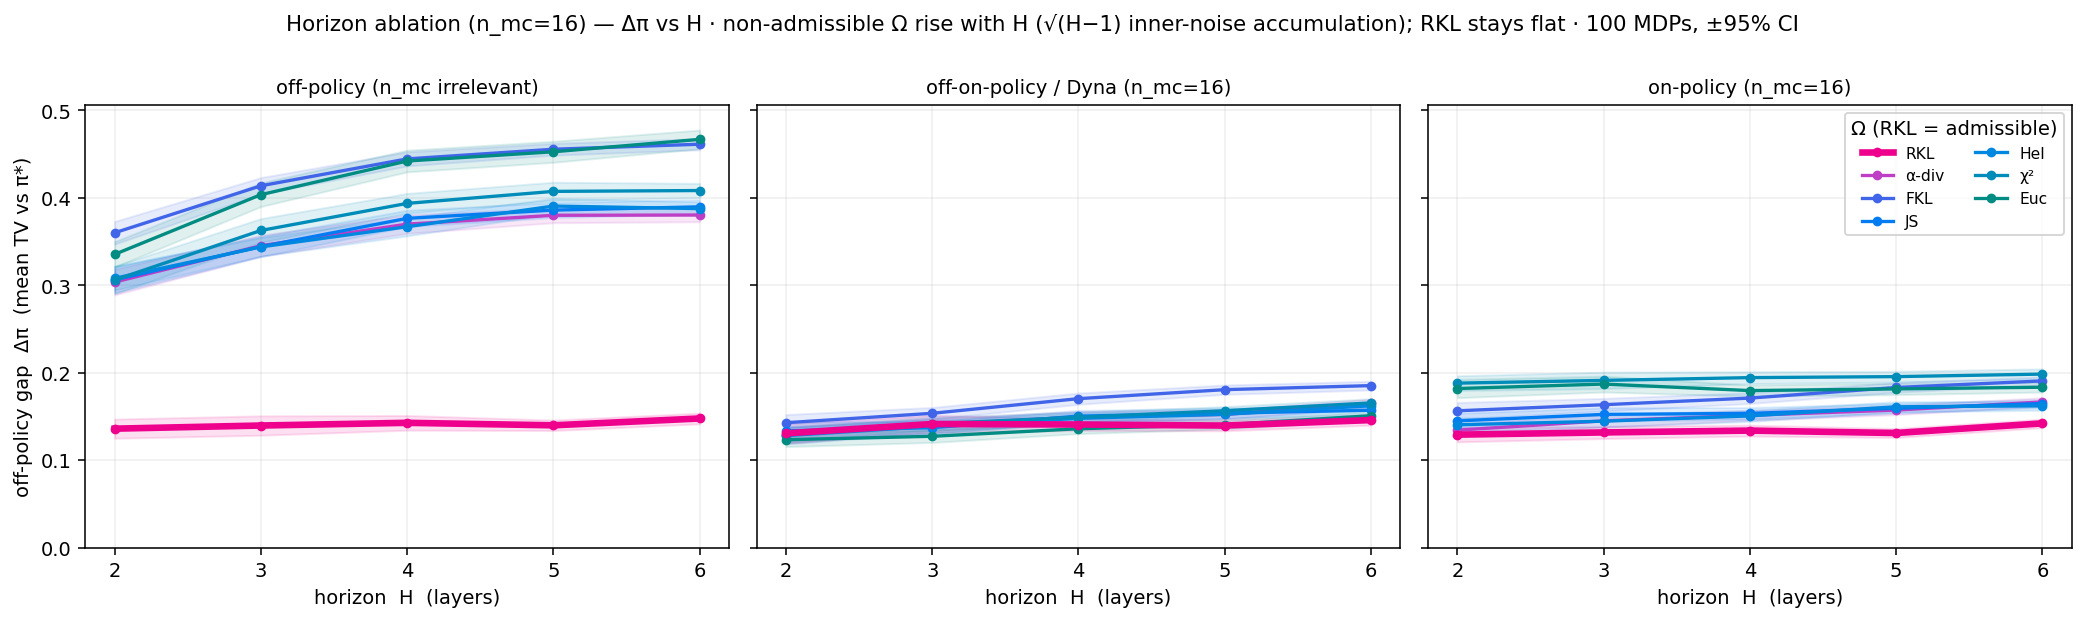
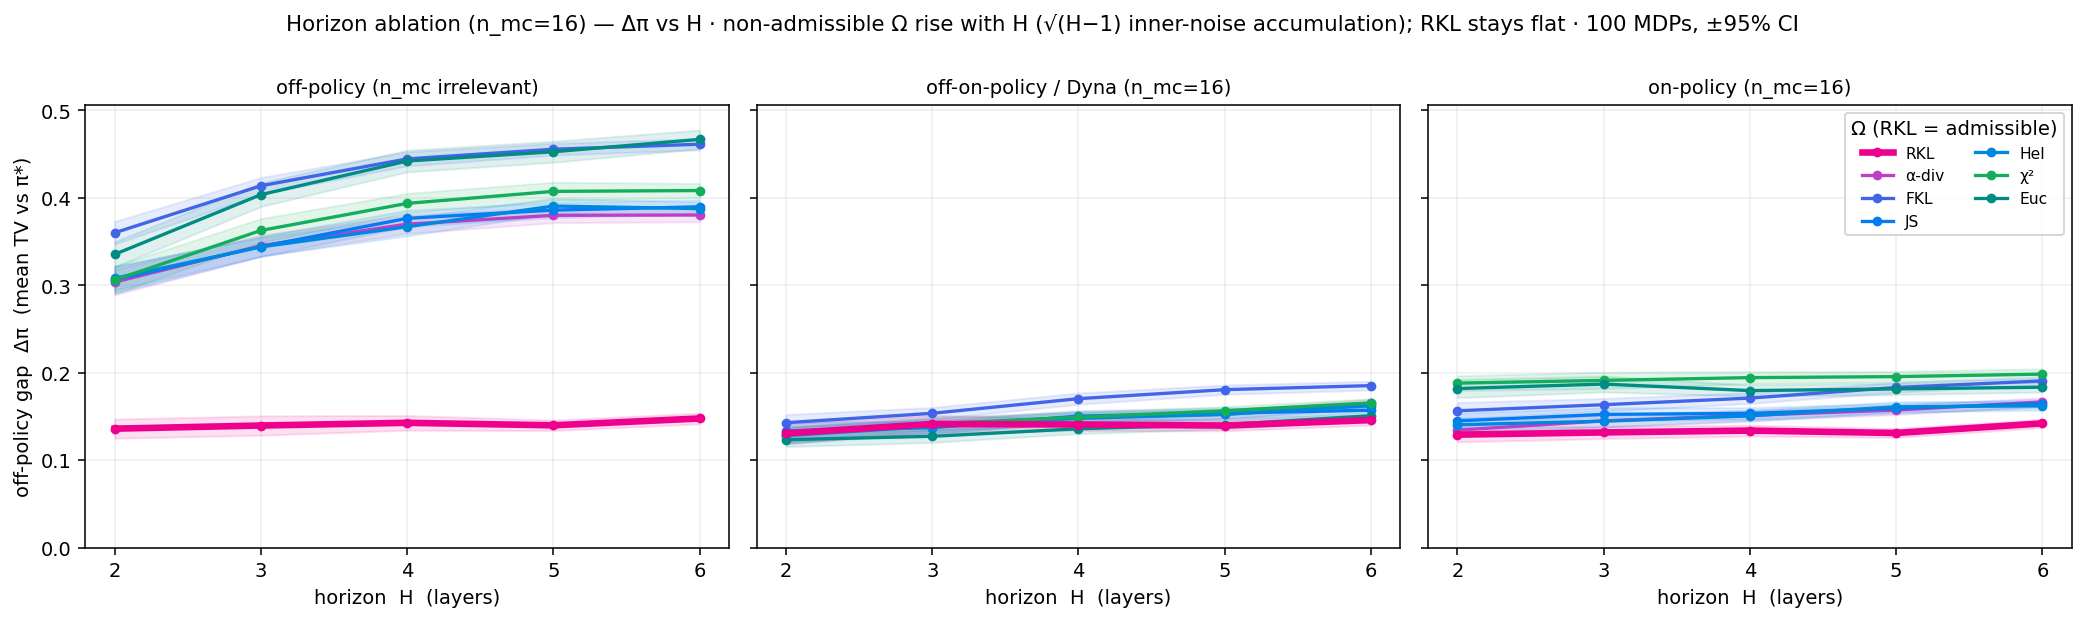
fig_tabular: use canonical COLORS, not the frozen manifest palette
fig_tabular read chi2's colour from each run's manifest snapshot (taken at data-gen
time), so the chi2->green recolor never reached the tabular headline/peak/sweep figs
even after regeneration. Colours are cosmetic -> use the canonical regularizers.COLORS
(_COLORS/_SHORT), matching the module's own 'canonical source' comment.

Regenerate all job-2 (02_figs.slrm) figures with green chi2 (verified: 27k green px in
tabular_headline_p70). Other fig_* scripts already used _COLORS directly; horizon and
mechanism figs updated too. All from local data/tabular/ — no cluster rerun.

diff --git a/python/fig_tabular.py b/python/fig_tabular.py
@@ -81,7 +81,7 @@ def _design_str(man):
 
 def fig_headline(man, agg_p, peak, nmc):
     """One peak's 3-panel headline: off (bars), off_on & on (Δπ vs n_mc, ±95%CI)."""
-    COLORS, SHORT = man["colors"], man["short"]
+    COLORS, SHORT = _COLORS, _SHORT   # canonical palette (colours are cosmetic; don't freeze the manifest's)
     regimes = [r for r in ("off", "off_on", "on") if r in agg_p]
     titles = {"off": "off-policy (single logged a′ · n_mc irrelevant)",
               "off_on": "off-on-policy / Dyna (fresh n_mc resample)",
@@ -125,7 +125,7 @@ def fig_headline(man, agg_p, peak, nmc):
 
 def fig_offpolicy_peaks(man, agg, peaks):
     """The off-policy punchline across all peaks: grouped bars per Ω, one bar per peak."""
-    COLORS, SHORT = man["colors"], man["short"]
+    COLORS, SHORT = _COLORS, _SHORT   # canonical palette (colours are cosmetic; don't freeze the manifest's)
     fig, ax = plt.subplots(figsize=(8.2, 4.4))
     x = np.arange(len(REGKEYS)); w = 0.8 / len(peaks)
     for j, peak in enumerate(peaks):
@@ -149,7 +149,7 @@ def fig_offpolicy_peaks(man, agg, peaks):
 def fig_alpha_sweep(man, peaks):
     """Deterministic peak(α) sweep for the representative MDP 0, with the calibrated α anchors for
     every peak present marked.  No randomness: solve_dp is a pure function of the reward draw."""
-    COLORS, SHORT = man["colors"], man["short"]
+    COLORS, SHORT = _COLORS, _SHORT   # canonical palette (colours are cosmetic; don't freeze the manifest's)
     root, env = man["root_seed"], man["env"]
     gamma, eps, depth = env["gamma"], env["eps"], env["depth"]
     rew = new_rewards(depth, rng_for(root, "reward", 0))
